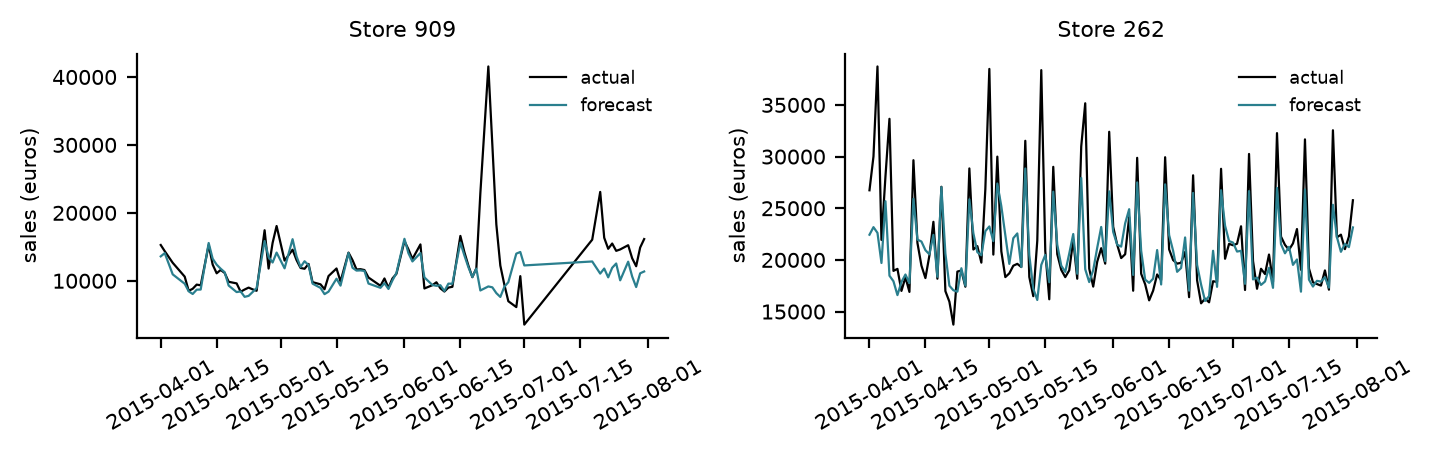
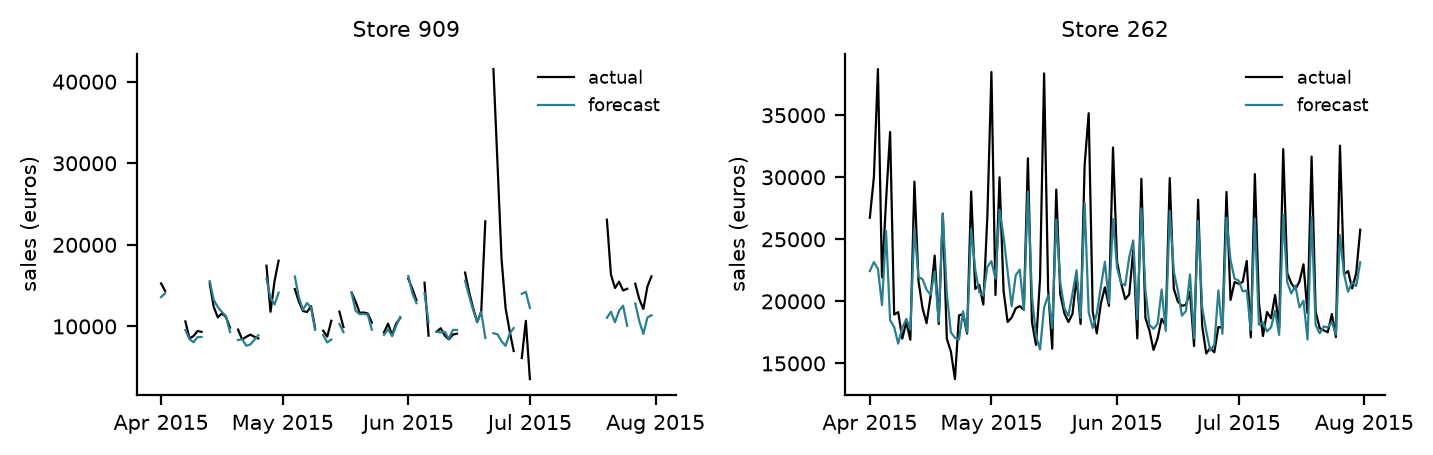
Update figures and paper with promotion-cycle check and residual findings

diff --git a/paper/paper.tex b/paper/paper.tex
@@ -40,7 +40,7 @@ A store manager must set staffing and stock days ahead. \textbf{Question:} seven
 \includegraphics[height=2.35in]{figures/fig_results.png}\hfill\includegraphics[height=2.35in]{figures/fig_intervals.png}
 \caption{Left: test MAE by model with 95\% intervals. Right: real coverage of nominal 80\% intervals overall and by slice; holidays fail.}\label{fig:res}\end{figure*}
 \section{Methods and evaluation design}
-\textbf{Baselines.} (B0) sales on the same weekday one week earlier; (B1) the mean of the last four same weekdays; (B2) linear regression on promotion, weekday, last week's sales, the 28-day mean and the store average. A one-week-old value is a weak benchmark: on the development folds the value two weeks earlier has a far lower error (MAE 1,328 against 1,990), which fits promotions that alternate between weeks (not checked directly), so B1 is the stronger comparison. \textbf{Models.} Ridge and Lasso (squared error plus an L2 or L1 penalty; linear in the features, so sales-scale features are log-transformed to avoid extrapolating the largest stores) and LightGBM~\cite{lgbm} (additive trees on squared error of $\log(1+y)$, which can learn interactions such as promotion by weekday by store type). One global model serves all stores, since each store has under 1,000 days. \textbf{Tuning.} Optuna~\cite{optuna} with 40 trials and 3 seeds per model on a fixed 25\% sample of stores for Lasso and LightGBM; the model is chosen by a rule fixed in advance: the simplest model within one standard error of the best mean fold MAE.
+\textbf{Baselines.} (B0) sales on the same weekday one week earlier; (B1) the mean of the last four same weekdays; (B2) linear regression on promotion, weekday, last week's sales, the 28-day mean and the store average. A one-week-old value is a weak benchmark: on the development folds the value two weeks earlier has a far lower error (MAE 1,328 against 1,990), which fits promotions that alternate between weeks (the promotion flag equals the flag 14 days earlier on 85.5\% of open store-days and the flag 7 days earlier on only 25.1\%), so B1 is the stronger comparison. \textbf{Models.} Ridge and Lasso (squared error plus an L2 or L1 penalty; linear in the features, so sales-scale features are log-transformed to avoid extrapolating the largest stores) and LightGBM~\cite{lgbm} (additive trees on squared error of $\log(1+y)$, which can learn interactions such as promotion by weekday by store type). One global model serves all stores, since each store has under 1,000 days. \textbf{Tuning.} Optuna~\cite{optuna} with 40 trials and 3 seeds per model on a fixed 25\% sample of stores for Lasso and LightGBM; the model is chosen by a rule fixed in advance: the simplest model within one standard error of the best mean fold MAE.
 
 \textbf{Split.} Development data end on 31 March 2015. Five expanding-window folds each validate on 42 days (2 Jun to 13 Jul, 4 Aug to 14 Sep, 6 Oct to 16 Nov, 24 Nov to 4 Jan including Christmas, 16 Feb to 29 Mar). The test period, 1 April to 31 July 2015, was scored once after the choice was committed and tagged. All models are scored on the same rows, those with a seasonal naive forecast (105,267 of 111,421 test rows). \textbf{Metrics.} MAE and WAPE (in euros, not dominated by small stores), MASE~\cite{mase} against the naive forecast, RMSE and $R^2$ (reported with $R^2$ within stores, since most variance is between stores). \textbf{Uncertainty.} 1,000 bootstrap resamples of whole stores, because days within a store are correlated; model differences use the same resamples.
 
@@ -61,19 +61,19 @@ LightGBM lowers MAE by 72\% against last week's value (paired difference $-1{,}5
 
 
 \begin{figure*}[t]\centering\includegraphics[width=\textwidth]{figures/fig_ablation_horizon.png}
-\caption{Left: rise in MAE when a feature group is removed (development folds, half the stores, paired intervals; counts in brackets). Right: MAE against forecast horizon.}\label{fig:abl}\end{figure*}
+\caption{Left: rise in MAE when a feature group is removed (development folds, half the stores, paired intervals; counts in brackets). Right: MAE against forecast horizon (the vertical axis does not start at zero).}\label{fig:abl}\end{figure*}
 \begin{figure*}[t]\centering\includegraphics[width=0.7\textwidth]{figures/fig_residuals.png}
 \caption{Residual diagnostics for the frozen model on the test period: (a) residuals against fitted values, (b) by weekday, (c) normal QQ plot of log residuals, (d) mean error per day with a 7-day average.}\label{fig:res2}\end{figure*}
 \section{Graduate analysis}
-\textbf{Uncertainty.} Conformal-style intervals~\cite{conf} use quantiles of out-of-fold log residuals (folds four and five), per store type; LightGBM quantile regression uses the 10th and 90th percentiles. Before the test, the offsets covered 81.6\% of folds one to three. On the test, conformal intervals cover 83.8\% (median width 30\% of the forecast) and quantile regression only 70.2\% (width 21\%), so we use the former. Coverage fails on public holidays (23.8\%, 172 rows) and Easter (20.4\%, 49 rows), where the model under-predicts by about 1,800 to 2,000\eur. Stocking to a quantile instead of the point forecast cut mean cost per store-day by 24\%, 40\% and 59\% when a shortage costs 3, 5 and 10 times a surplus, with shortages on 24\%, 15\% and 8\% of days (targets 25\%, 17\%, 9\%); sales stand in for demand, which stock-outs censor.
+\textbf{Uncertainty.} Conformal-style intervals~\cite{conf} use quantiles of out-of-fold log residuals (folds four and five), per store type; LightGBM quantile regression uses the 10th and 90th percentiles. Before the test, the offsets covered 81.6\% of folds one to three. On the test, conformal intervals cover 83.8\% (median width 30\% of the forecast) and quantile regression only 70.2\% (width 21\%), so we use the former. Coverage fails on public holidays (23.8\%, 172 rows) and Easter (20.4\%, 49 rows), where the model under-predicts by about 1,800 to 2,000\eur. Quantile regression, which sees the holiday flag, covers 79.7\% of public holidays but with intervals about 80\% of the forecast wide, so a holiday-aware conformal interval is the obvious fix; we did not tune it on the test. Stocking to a quantile instead of the point forecast cut mean cost per store-day by 24\%, 40\% and 59\% when a shortage costs 3, 5 and 10 times a surplus, with shortages on 24\%, 15\% and 8\% of days (targets 25\%, 17\%, 9\%); sales stand in for demand, which stock-outs censor.
 
 
 
 \textbf{Ablation and horizon.} Removing the planned-promotion group raises MAE by 42\% (265\eur; interval 253 to 275), calendar features by 25\%, history by 13\%, store attributes by 1.2\%, and the store average by 0.3\% (interval includes zero). History matters little because static store attributes, such as competition distance, are nearly unique per store and let the model learn store level; this does not carry over to new stores (below). MAE grows slowly with horizon: 594, 637, 643 and 694\eur{} at 1, 7, 14 and 28 days. Adding same-day customers, which cannot be known in advance, cuts MAE by 35\% (628 to 405\eur), which is why it is excluded.
 
 \begin{figure*}[t]\centering\includegraphics[width=\textwidth]{figures/fig_cases.png}
-\caption{Actual and forecast sales for the two stores with the largest MAE. Store 909 has isolated spikes of three to four times normal sales; store 262, one of the largest stores, is under-forecast on holidays.}\label{fig:cases}\end{figure*}
-\textbf{Failure audit.} Relative error is uniform across store types (WAPE 8.2 to 8.8\%) and months (7.8 to 9.1\%); 90\% of store-days are within 17.4\% and store-level WAPE ranges from 7.0\% (10th percentile) to 19.3\% (maximum); store 909 (19.2\%) has unexplained spikes of three to four times normal sales. Public holidays and Easter are the weak slices (WAPE 30\% and 34\%, 0.2\% of rows); several of the largest errors come from store 262, one of the largest stores, on holidays. Easter lay in no validation fold. Mean error is negative from April to June ($-331$, $-201$, $-129$\eur) and near zero in July ($+44$\eur; Fig.~\ref{fig:res2}a, d); the largest weekday bias is on Wednesdays ($-253$\eur). % TODO: after looking at Fig. 4, add one sentence on the shape of the residuals.
+\caption{Actual and forecast sales for the two stores with the largest MAE. Store 909: a spike of about four times normal sales, then about two weeks with no trading days (lines are broken at gaps). Store 262, one of the largest stores: weekly peaks are followed in timing but understated, and holidays are under-forecast.}\label{fig:cases}\end{figure*}
+\textbf{Failure audit.} Relative error is uniform across store types (WAPE 8.2 to 8.8\%) and months (7.8 to 9.1\%); 90\% of store-days are within 17.4\% and store-level WAPE ranges from 7.0\% (10th percentile) to 19.3\% (maximum); store 909 (19.2\%) shows a spike of about four times normal sales in mid-June and then about two weeks with no trading days (Fig.~\ref{fig:cases}), which looks like a temporary closure that no feature could foretell. Public holidays and Easter are the weak slices (WAPE 30\% and 34\%, 0.2\% of rows); several of the largest errors come from store 262, one of the largest stores, on holidays. Easter lay in no validation fold. Mean error is negative from April to June ($-331$, $-201$, $-129$\eur) and near zero in July ($+44$\eur; Fig.~\ref{fig:res2}a, d); the largest weekday bias is on Wednesdays ($-253$\eur). Residuals sit slightly above zero (the model under-predicts by 143\eur{} on average), their spread grows with the forecast, as expected on a log scale (Fig.~\ref{fig:res2}a), and their tails are far heavier than normal (panel c; RMSE over MAE is 1.46 against 1.25 for normal errors), which is why the intervals use empirical quantiles.
 Figure~\ref{fig:cases} shows the two worst stores. \textbf{Cold start.} For 112 stores held out entirely and given no history, MAE is 2,557\eur{} (WAPE 35\%), worse than a store-type by weekday median (2,086\eur) and far from the 589\eur{} with history; the model should not be used for new stores without a separate attributes-only approach.
 
 

diff --git a/src/make_figures.py b/src/make_figures.py
@@ -16,6 +16,9 @@ NAMES = {"baseline_seasonal_naive": "Same weekday\nlast week", "baseline_wd_mean
          "ridge": "Ridge", "lasso": "Lasso", "lightgbm": "LightGBM"}
 HOLIDAY = {0: "none", 1: "public\nholiday", 2: "Easter", 3: "Christmas"}
 
+def _months(ax):
+    ax.xaxis.set_major_locator(mdates.MonthLocator()); ax.xaxis.set_major_formatter(mdates.DateFormatter("%b %Y")); ax.tick_params(axis="x", rotation=0)
+
 def _save(fig, out, name):
     out.mkdir(parents=True, exist_ok=True); p = out / name
     fig.savefig(p, bbox_inches="tight"); plt.close(fig); print("  wrote", p); return p
@@ -41,8 +44,8 @@ def fig_results(boot, out):
     cols = ["#9aa5b1"] * 2 + ["#2A7F8E"] * (len(b) - 3) + ["#1F3A5F"]
     ax.barh(y, b.mae, xerr=[b.mae - b.mae_lo, b.mae_hi - b.mae], color=cols[:len(b)], ecolor="black", capsize=2)
     ax.set_yticks(y); ax.set_yticklabels([NAMES[m] for m in b.index]); ax.invert_yaxis(); ax.set_xlabel("test MAE (euros), 95% interval")
-    for i, (m, v) in enumerate(b.mae.items()): ax.text(v + 30, i, "%.0f" % v, va="center", fontsize=6.5)
-    ax.set_xlim(0, b.mae_hi.max() * 1.18); fig.tight_layout(); return _save(fig, out, "fig_results.png")
+    for i, (v, hi) in enumerate(zip(b.mae, b.mae_hi)): ax.text(hi + 35, i, "%.0f" % v, va="center", fontsize=6.5)
+    ax.set_xlim(0, b.mae_hi.max() * 1.2); fig.tight_layout(); return _save(fig, out, "fig_results.png")
 
 def fig_intervals(cov, summ, out):
     rows = [("all", "all", summ["conformal"]["coverage"], summ["quantile_regression"]["coverage"], summ["n_test_rows"])]
@@ -87,15 +90,16 @@ def fig_residuals(tp, chosen, out):
     ax[1, 0].set_xlabel("normal quantiles"); ax[1, 0].set_ylabel("log residual"); ax[1, 0].set_title("(c) Normal QQ plot of log residuals")
     daily = d.groupby("date").res.mean(); daily.index = pd.to_datetime(daily.index)
     ax[1, 1].plot(daily.index, daily.values, color="#9aa5b1", lw=0.6); ax[1, 1].plot(daily.index, daily.rolling(7, min_periods=3).mean(), color="#1F3A5F", lw=1)
-    ax[1, 1].axhline(0, color="#B5483A", lw=0.8); ax[1, 1].set_ylabel("mean residual per day (euros)"); ax[1, 1].set_title("(d) Mean error over the test period"); ax[1, 1].tick_params(axis="x", rotation=30)
+    ax[1, 1].axhline(0, color="#B5483A", lw=0.8); ax[1, 1].set_ylabel("mean residual per day (euros)"); ax[1, 1].set_title("(d) Mean error over the test period"); _months(ax[1, 1])
     fig.tight_layout(); return _save(fig, out, "fig_residuals.png")
 
 def fig_cases(tp, chosen, worst, out):
     stores = list(worst.store_key.head(2)); fig, ax = plt.subplots(1, 2, figsize=(7.2, 2.3))
     for a, s in zip(ax, stores):
-        d = tp[tp.store_key == s].sort_values("date"); x = pd.to_datetime(d.date)
-        a.plot(x, d.sales, color="black", lw=0.8, label="actual"); a.plot(x, d[chosen], color="#2A7F8E", lw=0.8, label="forecast")
-        a.set_title("Store %d" % s); a.set_ylabel("sales (euros)"); a.tick_params(axis="x", rotation=30); a.legend(frameon=False)
+        d = tp[tp.store_key == s].assign(date=lambda z: pd.to_datetime(z.date)).set_index("date").sort_index()
+        d = d.reindex(pd.date_range(d.index.min(), d.index.max()))          # days with no trading become gaps, not joined lines
+        a.plot(d.index, d.sales, color="black", lw=0.8, label="actual"); a.plot(d.index, d[chosen], color="#2A7F8E", lw=0.8, label="forecast")
+        a.set_title("Store %d" % s); a.set_ylabel("sales (euros)"); _months(a); a.legend(frameon=False)
     fig.tight_layout(); return _save(fig, out, "fig_cases.png")
 
 def main():

diff --git a/decision_log.md b/decision_log.md
@@ -43,3 +43,6 @@ One line per decision: date | decision | reason | rubric criterion it supports.
 - [2026-11-12] | Cold start (112 stores, no history): MAE 2,557 against 589 with history and 2,086 for a store-type by weekday median | the model should not be used for new stores | Results, errors and limitations
 - [2026-11-12] | Smearing factor 1.019 removes the 2 percent under-prediction of the log-scale model (mean error -143 to -7 euros; MAE 601 to 597) | retransformation bias | Results
 - [2026-11-12] | 5.5 percent of test rows left out of the headline (no last-week value, days after holiday closures); the model does better on them (MAE 508) | headline is slightly conservative | Evaluation design
+- [2026-11-12] | The promotion flag equals the flag 14 days earlier on 85.5 percent of open store-days and the flag 7 days earlier on 25.1 percent (21 days 39.9, 28 days 74.1) | promotions alternate between weeks, so last week's value is a weak baseline; the four-week mean is the stronger comparison | Baseline and method selection
+- [2026-11-12] | Residuals: slightly above zero, spread grows with the forecast, tails far heavier than normal (RMSE over MAE 1.46 against 1.25 for normal errors) | empirical quantiles used for the intervals | Results, errors and limitations
+- [2026-11-12] | Quantile regression covers 79.7 percent of public holidays (width about 80 percent of the forecast) while conformal covers 23.8 percent; a holiday-aware conformal interval is future work and was not tuned on the test | limitation stated | Results, errors and limitations
